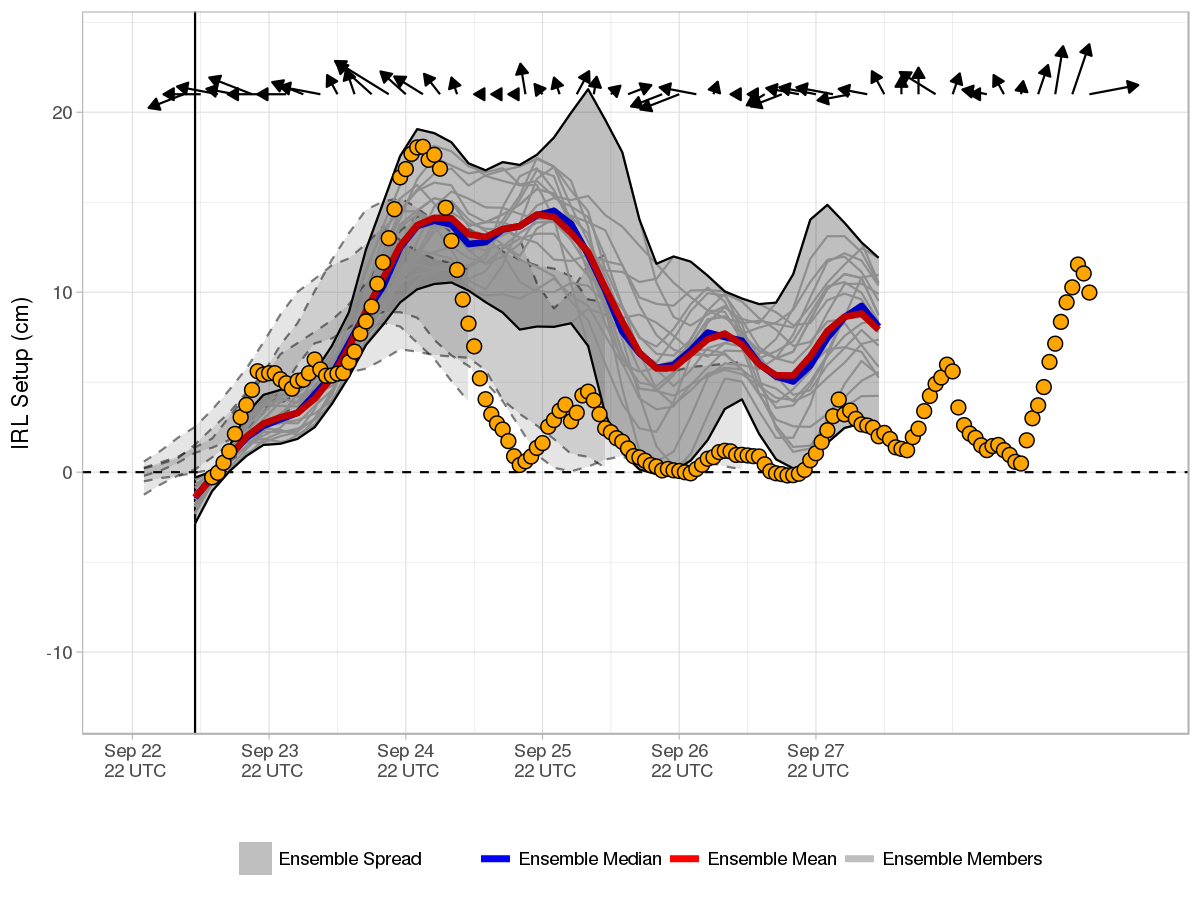
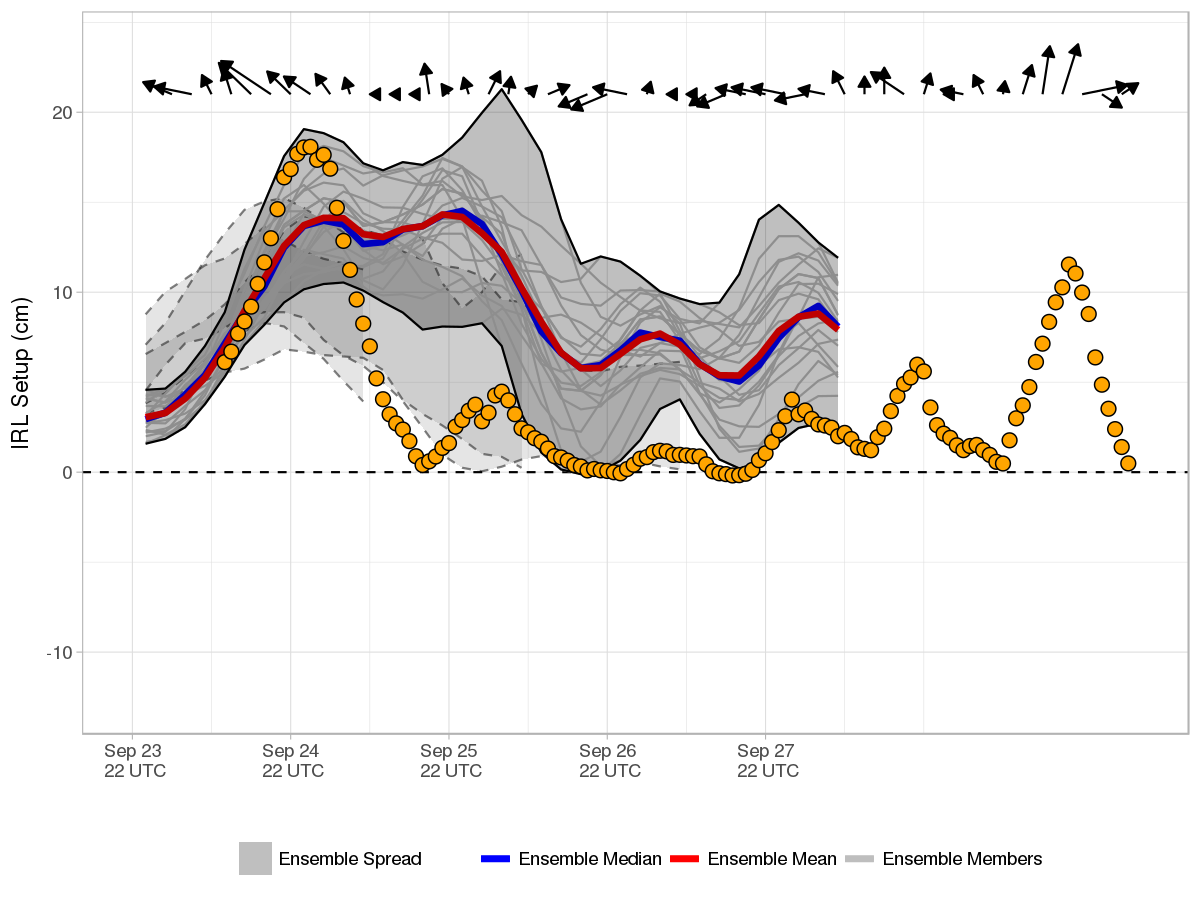
Forecast Update 2020093000

diff --git a/docs/index.md b/docs/index.md
@@ -1,9 +1,9 @@
-Current Forecast 2020-09-29 18Z
+Current Forecast 2020-09-30 00Z
 -----------------------------------
 
 [![](img/raw_setup.png)](https://fit-winds.github.io/IRLSetup/img/raw_setup.png)
 
-> Forecast valid 2020-09-29 19:03:08.
+> Forecast valid 2020-09-30 01:37:04.
 
 Explanation
 -----------
